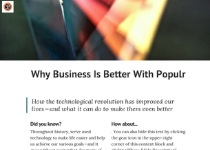
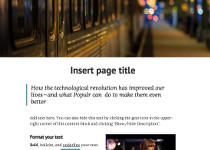
updated screenshot, background image, removed unused image files

diff --git a/index.html b/index.html
@@ -24,7 +24,7 @@
   -->
 
   <meta itemprop="backgroundContainer" content="#background">
-  <meta itemprop="defaultBackground" content="/images/abstract.jpg" data-width="1800" data-height="1800" data-position="c" data-style="fill" data-color="#5E6A76">
+  <meta itemprop="defaultBackground" content="/images/abstract2.jpg" data-width="1800" data-height="1800" data-position="c" data-style="fill" data-color="#5E6A76">
 
   <!--
     Theme styles
